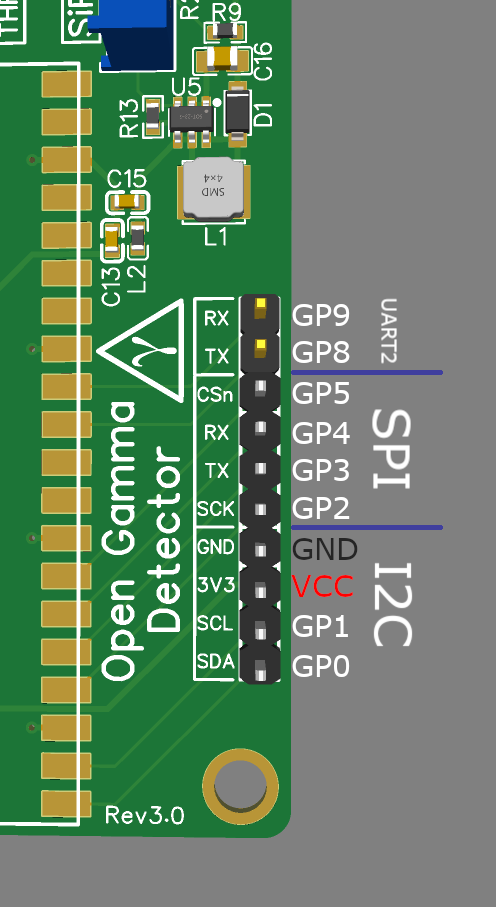
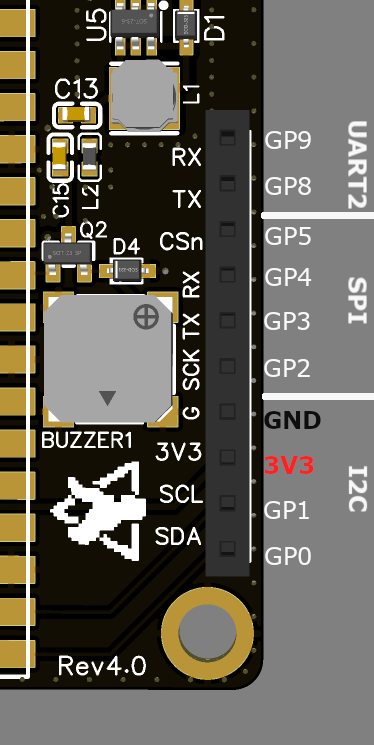
update HW README

diff --git a/hardware/README.md b/hardware/README.md
@@ -8,7 +8,7 @@ The following 6 mm SiPMs are recommended for this project:
 
 * **MICROFC-60035-SMT-TR**
 * MICROFC-60035-SMT-TR1 (the exact same as above, however will be more expensive to purchase as sold in smaller batches to suppliers)
-* AFBR-S4N66C013 (a good replacement if the above are unavailable)
+* AFBR-S4N66C013 (a good replacement if the above are unavailable, but already officially EOL'd, so keep that in mind)
 
 Here are some very helpful in-depth datasheets about the particular MicroFC SiPM recommended here:
 
@@ -30,7 +30,7 @@ Here are some front and back side renders of the detector PCB. Size is about 120
 
 ![Back Side PCB](../docs/pcb_back.png)
 
-On the back side of the PCB there is also a jumper to connect the analog ground to the rest of the ground plane. You can solder that if you want to, if you know exactly what you're doing. It's not needed, though.
+On the back side of the PCB there is also a jumper to connect the analog ground to the rest of the ground plane. You can solder that if you want to and you know exactly what you're doing. It's not needed, though, that's why it's open by default.
 
 There are also broken-out pins for the power supply, I2C, SPI and UART connections. These can be used to modify the device, e.g. by adding a display or using a battery charger. You can have a look at the great [Raspberry Pi Pico datasheet](https://datasheets.raspberrypi.com/pico/pico-datasheet.pdf) for more info on this.
 
@@ -40,27 +40,27 @@ Some more info on the peripheral headers can be found in the `software` section 
 
 ![Header Pinout](../docs/pinout.png)
 
-You can also put a little jumper from `VBUS` to `VSYS` if you **only** want to use the detector with the USB connection on the Pico. This bridges a diode on the Raspberry Pi Pico and saves you a couple of mW.
+You can also put a little jumper from `VBUS` to `VSYS` if you **only** want to use the detector with the USB connection on the Pico. This bridges the diode on the Raspberry Pi Pico and saves you a couple of mW.
 
 ## Potentiometers
 
-Here is a helpful image about the potentiometer settings for revision 3.0, it's not complicated:
+Here is a helpful image about the potentiometer settings for revision 4.0:
 
 ![Potentiometer Controls](../docs/controls.png)
 
-As you can see it is pretty easy to set the required voltage and threshold. **As a general rule, turn any potentiometer clockwise to increase the parameters, turn anti-clockwise to decrease.**
+As you can see it is pretty simple to set the required voltage and threshold. **Just turn any potentiometer clockwise to increase the corresponding parameter, turn anti-clockwise to decrease.**
 
 ## Scintillator (Assembly)
 
-The finished [MicroFC-](https://github.com/OpenGammaProject/MicroFC-SiPM-Carrier-Board) and [AFBR-](https://github.com/OpenGammaProject/AFBR-SiPM-Carrier-Board) SiPM carrier boards are there to allow for easier packaging with the scintillator as well as to be reusable for different detectors as that's by far the single most expensive part and you'll want to use it as long as possible.
+The finished [standard MicroFC-](https://github.com/OpenGammaProject/MicroFC-SiPM-Carrier-Board), [tiny MicroFC-](https://github.com/OpenGammaProject/Tiny-MicroFC-Carrier-Board) and [AFBR-](https://github.com/OpenGammaProject/AFBR-SiPM-Carrier-Board) SiPM carrier boards are there to allow for easier packaging with the scintillator as well as to be reusable for different detectors as that's by far the single most expensive part and you'll want to use it as long as possible.
 
-If you are using a larger-diameter scintillator, it might be better for you to use something like the [MicroFC SiPM Array Board](https://github.com/OpenGammaProject/MicroFC-SiPM-Array-Board), which has a 2x2 matrix of SiPMs resulting in 4x the active area. This can increase the energy resolution for large crystals.
+If you are using a larger-diameter scintillator, it's probably better for you to use something like the [MicroFC SiPM Array Board](https://github.com/OpenGammaProject/MicroFC-SiPM-Array-Board), which has a 2x2 matrix of SiPMs resulting in 4x the active area. **This will increase the energy resolution for large crystals.**
 
 ### Scintillator Cyrstals
 
-I got all of my scintillators (used NaI(Tl), LYSO, ...) on eBay. Just search for some keywords or specific types, you'll probably find something. Just be sure to look out for signs of wear and tear like scratches on the window or yellowing (!) in NaI crystals as these can deteriorate performance significantly.
+I got most of my scintillators (used NaI(Tl), LYSO, ...) on eBay. Just search for some keywords or specific types, you'll probably find something. Just be sure to look out for signs of wear and tear like scratches on the window or yellowing (!) in NaI crystals as these can deteriorate performance significantly.
 
-You can obviously also buy brand-new scintillators, however, these can be much more expensive. It really depends on the manufacturer there. You can get some cheap 1" x 1" NaI(Tl) scintillator from China for < $100.
+You can obviously also buy brand-new scintillators, however, these can be much more expensive. It really depends on the manufacturer there. You can get some cheap 1" x 1" NaI(Tl) scintillator from China for <100 USD.
 
 Two sources of new NaI(Tl) scintillators are:
 
@@ -69,17 +69,17 @@ Two sources of new NaI(Tl) scintillators are:
 |[OST - Photonics](https://www.ost-photonics.com/products/scintillation-crystal/encapsulated-scintillator/standard-type-naitl-scintillator/)| China | Can purchase directly from website |
 | [Epic-Crystal](https://www.epic-crystal.com/) | China | Also sold by [GammaSpectacular](https://www.gammaspectacular.com/)
 
-**Since this is a fixed-gain device, I can only highly recommend you to get a scintillator that fits on the PCB and is of a comparable volume as the scintillators I tested. I am using an 18 x 30 mm crystal for most of the spectra that you can see here and it works great. Also, due to the small size of the SiPM in comparison to the scintillator opening, try to use narrower crystals than wider ones if you can.** That way, there aren't many light losses to the SiPM. In general, just be sure the volume/size is not orders of magnitue larger or smaller. If that's not possible, consider using the array board.
+**Since this is a fixed-gain device, I can only highly recommend you to get a scintillator that fits on the PCB and is of a comparable volume as the scintillators I tested.** I am using an 18 x 30 mm crystal for most of the spectra that you can see here and it works great. Also, due to the small size of the SiPM in comparison to the scintillator opening, try to use narrower crystals than wider ones if you can. That way, there aren't many light losses to the SiPM. In general, just be sure the volume/size is not orders of magnitue larger or smaller. If that's not possible, consider using the array board. **The array board works great with a 1" x 1" NaI(Tl) with this detector for example. There is also an optional trim pot for the gain on the Rev. 4 boards that you can solder and use to change the preamp gain.**
 
-If the scintillator is too small, the output voltage too will be very low and you might get restricted by the ADC resolution. In this case the energy range will also be much higher than you would ever need (can easily get up to 10 MeV).
+If the scintillator is too small, the output voltage will be very low and you might get restricted by the ADC resolution. In this case the energy range will also be much higher than you would ever need (can easily get up to 10 MeV).
 
-If the scintillator is too large, the output voltages will be very high and thus decrease your energy range dramatically. The device is limited by the 3.0 V reference voltage in this case!
+If the scintillator is too large, the output voltages will be pretty high and thus decrease your energy range dramatically. The device is limited by the 3.0 V reference voltage in this case, so you might see clipping. Your mileage my vary.
 
 **As a general rule of thumb, try to use as much of the space available on the PCB as possible to mount the scintillator and you will (in most cases) be absolutely fine.**
 
-### Index-Matching Material
+### Index-Matching Material For Coupling
 
-You should apply some optical coupling compound between the SiPM and the crystal window to reduce reflections as good as possible (this way the best photon detection efficiency is achieved). There a multitude of options for optical couplants, and depending on your region some may be easier to aquire than others. As a general rule of thumb, silicone oil/grease can be used. If it contains polydimethylsiloxane, you're on the right track. Some options:
+You should apply some optical coupling compound between the SiPM and the crystal window to reduce reflections as good as possible (this way the best photon detection efficiency is achieved). There a multitude of options for optical couplants, and depending on your region some may be easier to aquire than others. As a general rule of thumb, silicone oil/grease can also be used and works fine. If it contains polydimethylsiloxane, you're on the right track. Some options:
 
 <!---This is a good source https://www.logwell.com/tech/servtips/optical_coupling_grease.html - Sebyon --->
 
@@ -94,7 +94,7 @@ You should apply some optical coupling compound between the SiPM and the crystal
 
 After you applied some, you press both parts together and wrap everything with light-tight tape, again, I'm just using some black electrical tape here. That's essentially it, now you can solder some wires to the pads on the board to connect them together and secure it in place in the free space on the board.
 
-It's very important to get the SiPM/scintillator assembly light-tight. Otherwise you'll either run into problems with lower energies where noise dominates or outright not measure anything at all, because the sensor is saturating.
+**It's very important to get the SiPM/scintillator assembly light-tight.** Otherwise you'll either run into problems with lower energies where noise dominates or outright not measure anything at all, because the sensor is saturating (clipping signals).
 
 **==> More assembly instructions can be found on the [Hackaday.io project page](https://hackaday.io/project/185211/instructions)!**
 
@@ -110,13 +110,13 @@ I'll happily accept PRs if you make something like that, though, so let me know!
 
 ## Shielding
 
-Due to the detector measuring small voltages, energy resolution being limited by noise and a small 470 pF capacitor being on board, it is generally pretty sensitive to EMI. For the best performance possible, you should put your detector into some kind of metal enclosure. It doesn't need to be a thick metal case, a tin can will most likely suffice.
+Due to the detector measuring small voltages, energy resolution being limited by noise and a small 470 pF capacitor being on board, it can sometimes be pretty sensitive to EMI. For the absolute best performance, you should put your detector into some kind of metal enclosure. It doesn't need to be a thick metal case, a tin can will most likely suffice.
 
 <!--- Once I start assembly I'll look at proving some shielding ideas - Sebyon --->
 
 The four screw holes on the PCB's actual detector part are connected to the circuit GND.
 
-As some level of protection against EMI, the peak and hold capacitor is periodically discharged as to avoid it being charged ever so slightly by interference. This takes place every millisecond by default and cannot be switched on or off via a serial command. This adds less than 1% of additional dead time (~2.5 µs per reset), so should be completely negligible.
+As some level of protection against EMI, the peak and hold capacitor is periodically discharged as to avoid it being charged ever so slightly by interference and the feedback path. This takes place every millisecond by default and cannot be switched on or off via a serial command. This adds less than 1% of additional dead time (~2.5 µs per reset every ms), so should be completely negligible.
 
 ## 3D Printed Case
 
@@ -126,4 +126,4 @@ All the STL files to print the two parts (main body and cover) can be found in [
 
 ![Inside view of the box](../docs/inside_box.jpg)
 
-(This is an old image from Revision 2.0, but the footprint is exactly the same.)
+(This is an old image from Revision 2.0, but the footprint is exactly the same, you get the gist.)
